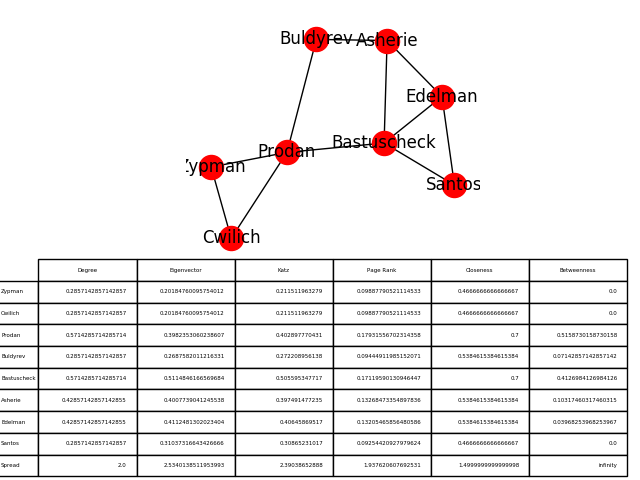
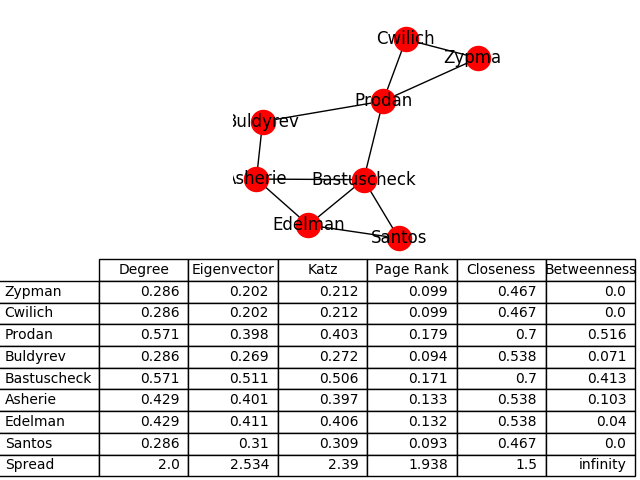
here it is

Changed region(s): [[0.0, 0.0312, 1.0, 1.0]]

diff --git a/Homework2.py b/Homework2.py
@@ -69,13 +69,19 @@ def plot_info(G, names):
 		row_lables.append(names[x])
 	row_lables.append('Spread')
 	centralities = ['Degree', 'Eigenvector', 'Katz', 'Page Rank', 'Closeness', 'Betweenness']
+	print(data)
+	for row in range(len(data)):
+		for item in range(len(data[0])):
+			if type(data[row][item]) is not str:
+				data[row][item] = round(data[row][item], 3)
 	the_table = plt.table(cellText=data, rowLabels=row_lables, colLabels=centralities, loc='bottom')
 	plt.tight_layout()
 	plt.subplots_adjust(left=0.29, bottom=0.46, right=0.75, top=None,
 	                wspace=None, hspace=None)
-	the_table.set_fontsize(24)
 	the_table.scale(2,2)
 	plt.axis('off')
+	the_table.auto_set_font_size(False)
+	the_table.set_fontsize(10)
 	plt.show()
 def draw_balanence_graph(G, edges, names):
 	nx.draw_networkx_edge_labels(G, pos=nx.spring_layout(G), edge_labels=edges)
